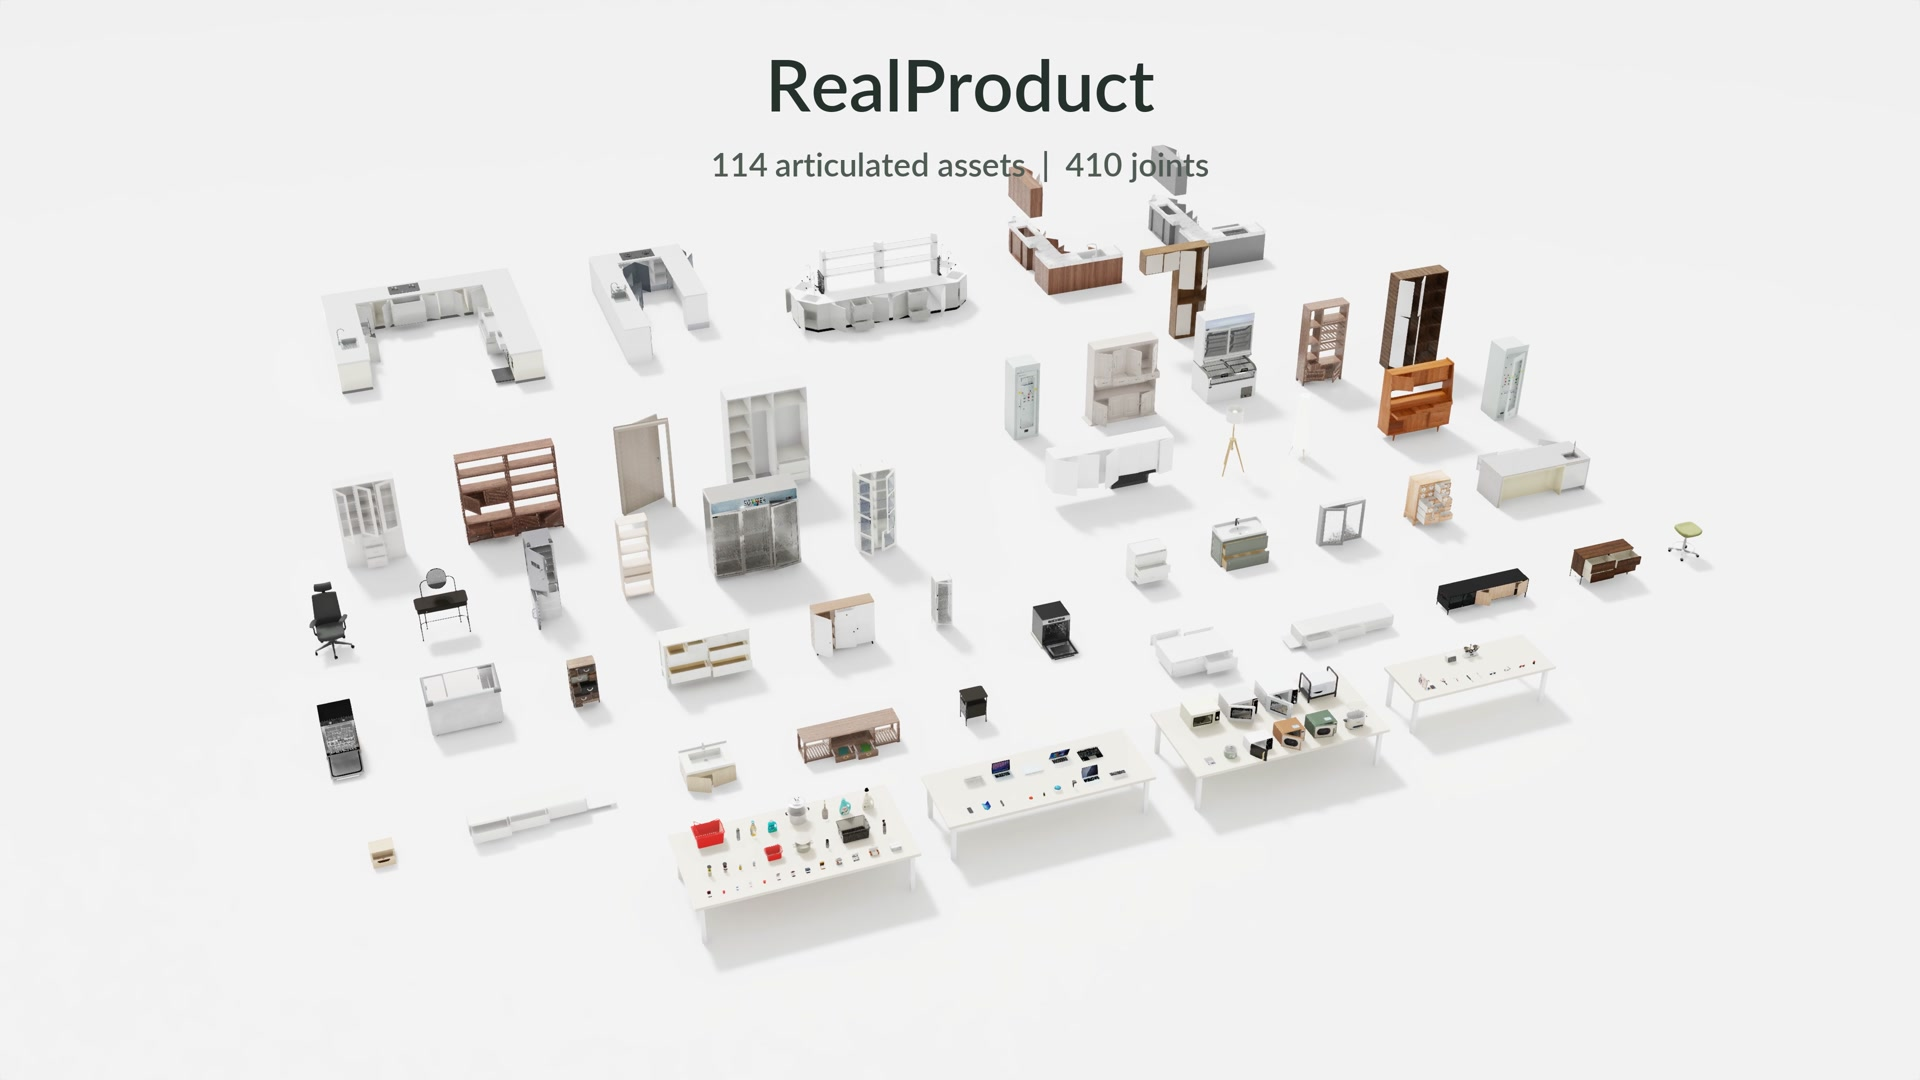
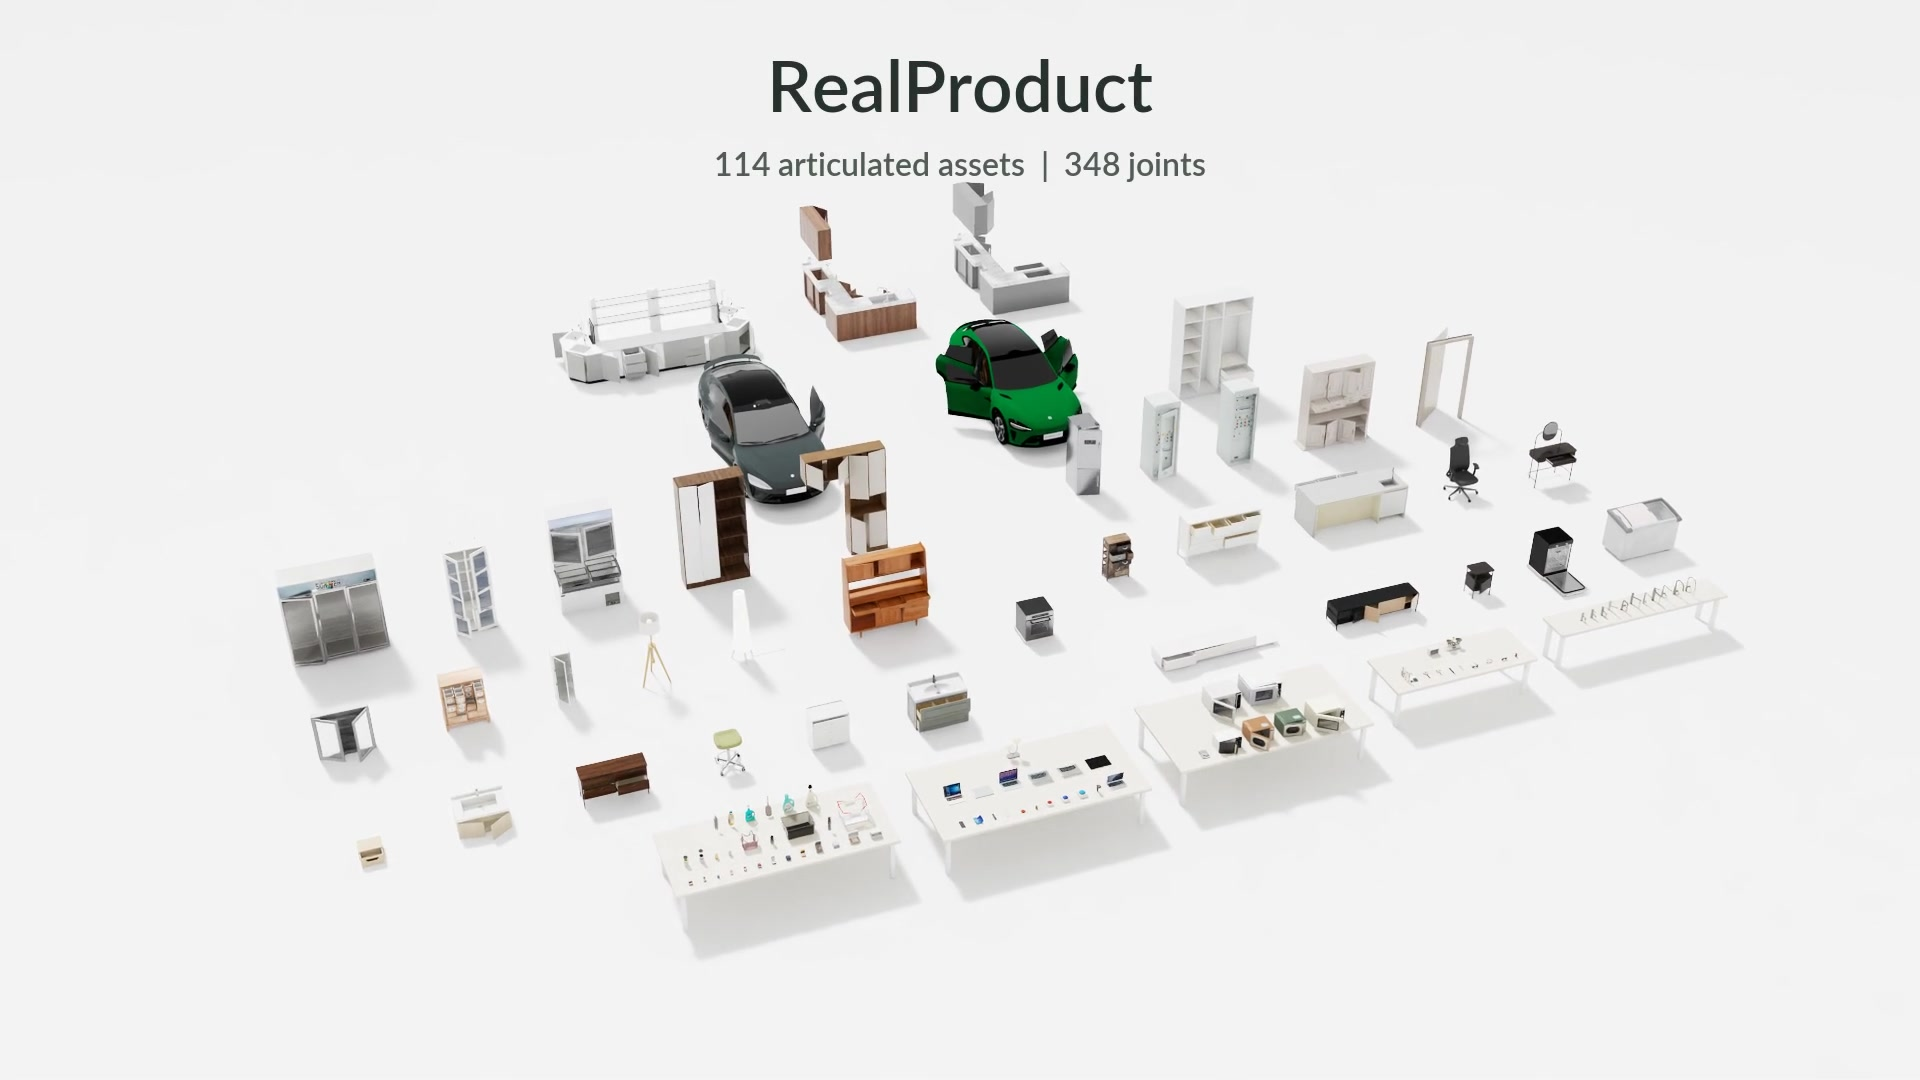
Update DualCraft paper project page

Changed region(s): [[0.125, 0.0611, 0.9062, 0.9167], [0.5312, 0.55, 0.5625, 0.6111]]

diff --git a/index.html b/index.html
@@ -69,8 +69,8 @@
       </figure>
       <figure id="overview-intro">
         <video controls controlslist="nodownload" playsinline preload="none" width="1280" height="720"
-          poster="assets/images/overview-intro.jpg" aria-label="Scene showcase">
-          <source src="https://github.com/mlpchenxl/dualart-project-page/releases/download/website-media-20260925/overview-intro-b8e9f4060382.mp4" type="video/mp4">
+          poster="assets/images/overview-intro.jpg?v=f2cf1593e10f" aria-label="Scene showcase">
+          <source src="https://github.com/mlpchenxl/dualart-project-page/releases/download/website-media-20261021/overview-intro-a5a2a143c824.mp4?v=a5a2a143c824" type="video/mp4">
           Your browser does not support embedded video.
         </video>
       </figure>
@@ -81,7 +81,7 @@
       <p class="eyebrow">01 / Overview</p>
       <h2 id="abstract-title">Abstract</h2>
       <div class="abstract-copy">
-        <p>Interactive articulated objects such as doors and home appliances are crucial in robotics, but creating their sim-ready assets remains labor-intensive. Generating them from images is hard because part geometry and motion structure must be recovered jointly: refining geometry changes assembly positions and clearances, while motion errors may require geometric fixes. We present DualCraft, a dual-workspace agent that models articulated objects from images without additional training. Its geometry workspace refines part shapes and materials against the images, and its program workspace defines the assembly and joints and checks their motion; shared part frames keep the two consistent. We also build Real-Product, 114 handcrafted articulated objects across 9 categories and 63 product types, and ARTS-Bench, a 690-object benchmark that scores geometry and appearance at rest and in motion. DualCraft achieves the best score on every ARTS-Bench metric against five baselines, reducing Chamfer distance at rest by 38% relative to the strongest, and ablations show that its visual feedback and geometry checks catch different errors. Its assets load directly into Isaac Sim for robot manipulation. We will release the code, dataset, and benchmark.</p>
+        <p>Interactive articulated objects such as doors and home appliances are crucial in robotics, but creating their sim-ready assets remains labor-intensive. Generating them from images is hard because part geometry and motion structure must be recovered jointly: refining geometry changes assembly positions and clearances, while motion errors may require geometric fixes. We present DualCraft, a dual-workspace agent that models articulated objects from images without additional training. Its geometry workspace refines part shapes and materials against the images, and its program workspace defines the assembly and joints and checks their motion; shared part frames keep the two consistent. We also build Real-Product, 114 handcrafted articulated objects across 9 categories and 57 product types, and ARTS-Bench, a 706-object benchmark that scores geometry and appearance at rest and in motion. DualCraft achieves the best score on every ARTS-Bench metric against five baselines, reducing Chamfer distance at rest by 38% relative to the strongest, and ablations show that its visual feedback and geometry checks catch different errors. Its assets load directly into Isaac Sim for robot manipulation. We will release the code, dataset, and benchmark.</p>
       </div>
     </section>
 
@@ -110,8 +110,8 @@
       </div>
       <figure>
         <video controls controlslist="nodownload" playsinline preload="none" width="1920" height="1080"
-          poster="assets/images/realproduct-dataset.jpg" aria-label="RealProduct dataset showcase">
-          <source src="https://github.com/mlpchenxl/dualart-project-page/releases/download/website-media-20260925/realproduct-dataset-2ce8ddd7e507.mp4" type="video/mp4">
+          poster="assets/images/realproduct-dataset.jpg?v=4ef13e477845" aria-label="RealProduct dataset showcase">
+          <source src="https://github.com/mlpchenxl/dualart-project-page/releases/download/website-media-20261021/realproduct-dataset-4ef13e477845.mp4?v=4ef13e477845" type="video/mp4">
           Your browser does not support embedded video.
         </video>
       </figure>
@@ -149,8 +149,8 @@
       </div>
       <figure>
         <video controls controlslist="nodownload" playsinline preload="none" width="1920" height="1080"
-          poster="assets/images/benchmark.jpg" aria-label="Benchmark evaluation protocol showcase">
-          <source src="https://github.com/mlpchenxl/dualart-project-page/releases/download/website-media-20260925/benchmark-c769a2518b7d.mp4" type="video/mp4">
+          poster="assets/images/benchmark.jpg?v=7b1488b35c60" aria-label="Benchmark evaluation protocol showcase">
+          <source src="https://github.com/mlpchenxl/dualart-project-page/releases/download/website-media-20261021/benchmark-7b1488b35c60.mp4?v=7b1488b35c60" type="video/mp4">
           Your browser does not support embedded video.
         </video>
       </figure>
